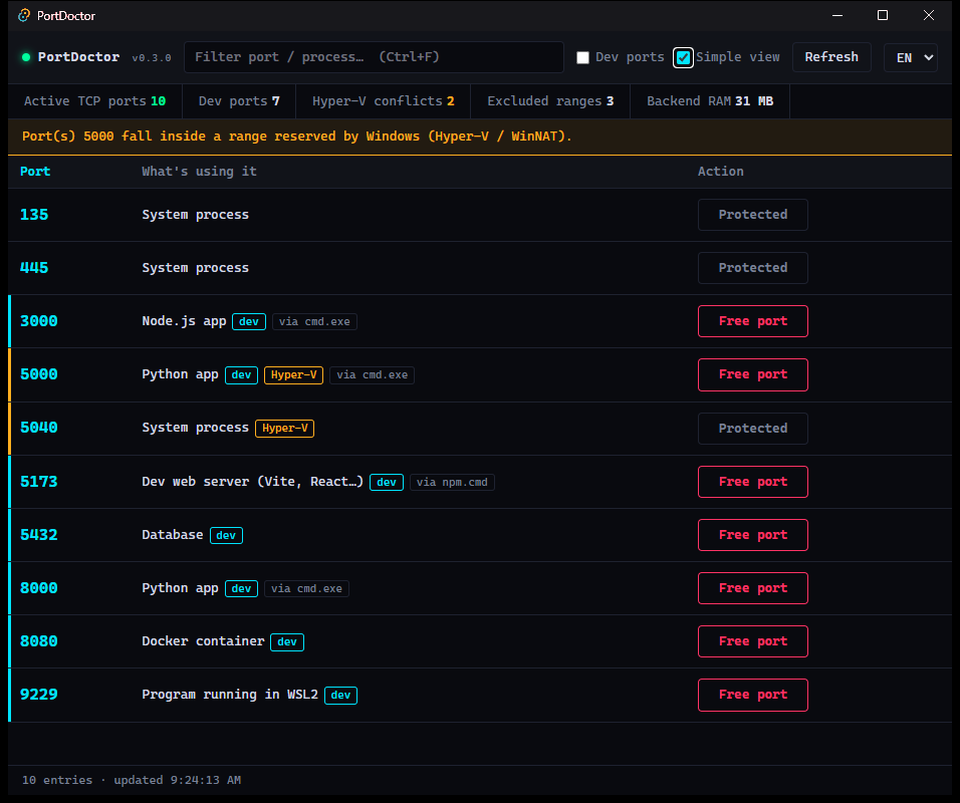
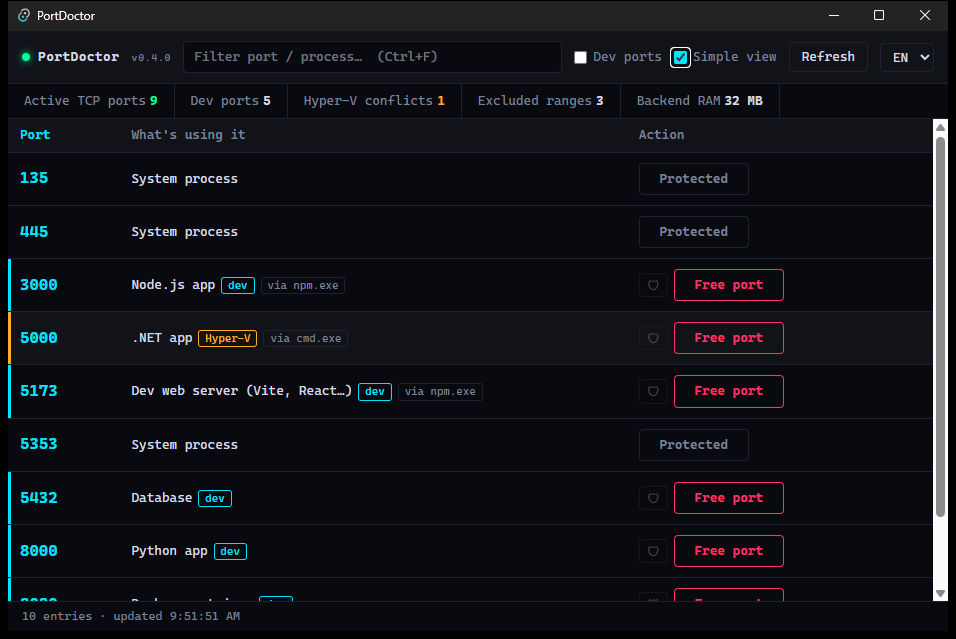
docs: GIF et captures avec le Port Shield (v0.4.0)

diff --git a/README.md b/README.md
@@ -30,7 +30,7 @@ A `npm run dev` closed in a hurry, a zombie `node.exe` still holding port 3000, 
 
 ![Animated demo](assets/demo.gif)
 
-*Animated demo (fictitious data): switch to the **Simple view** (plain-language labels, big **Free port** button), free a port (confirmation, a **toast** notification and the row fades out), then Smart Kill on port 5173: the modal shows the process tree (`cmd` → `node` → `node` → child), and a toast confirms the port is freed.*
+*Animated demo (fictitious data): switch to the **Simple view** (plain-language labels, big **Free port** button), free a port (confirmation, a **toast** notification and the row fades out), then Smart Kill on port 5173: the modal shows the process tree (`cmd` → `node` → `node` → child), and a toast confirms the port is freed. Finally the **Port Shield**: click the shield on port 5173 (toast "port 5173 is watched"), then a yellow alert warns that another process (`python.exe`) now holds the port instead of `node.exe`.*
 
 <details>
 <summary>Static screenshots</summary>
@@ -46,6 +46,10 @@ The **Simple view** (checkbox in the header, remembered between launches) hides 
 ![PortDoctor Smart Kill](assets/ui-smartkill.png)
 
 When a process has children or an `npm` / `yarn` launcher above it, the **Kill** button opens the **Smart Kill** modal: it lists the exact tree (parents, port owner, children) and lets you exclude the parents before stopping.
+
+![PortDoctor Port Shield](assets/ui-shield.png)
+
+The **Port Shield** (small shield button before **Kill** / **Free port**, on every unprotected TCP row): click it to watch a port. If another process takes it, a yellow alert toast tells you which one (here `python.exe` instead of `node.exe`). Alert only: PortDoctor never stops anything on its own.
 
 > The screenshots use **demo data** (no user name and no real process from the machine).
 
